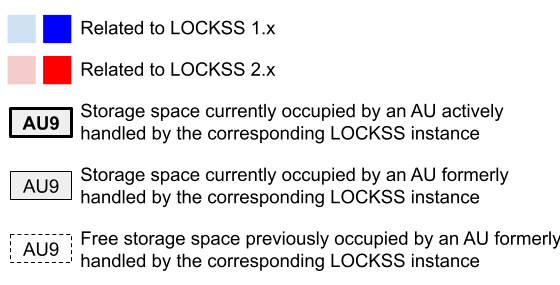
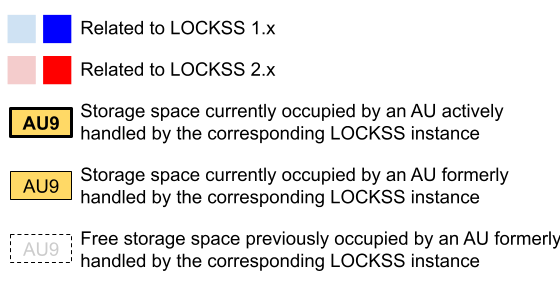
New diagrams for same-host migrations.

Changed region(s): [[0.0, 0.5895, 0.1518, 0.7018], [0.0, 0.3649, 0.1518, 0.4772], [0.0304, 0.8421, 0.1214, 0.8982]]

diff --git a/docs/migration/introduction.rst b/docs/migration/introduction.rst
@@ -70,32 +70,26 @@ Migration Scenario
 
 .. |SAMEHOSTMIGRATION| replace:: In this :ref:`Migration Scenario`, the LOCKSS 2.x instance is run on the existing host of the LOCKSS 1.x instance. After migration, the LOCKSS 1.x instance is decommissioned. If chosen, this scenario has two subtypes: a :ref:`Same-Host Migration With Future reclamation` if there is sufficient storage space to hold an entire LOCKSS 1.x and LOCKSS 2.x copy of the preserved content simultaneously (preferable), or a :ref:`Same-Host Migration With Incremental reclamation` if there is not.
 
-.. |SAMEHOSTMIGRATIONQUALIFICATION| replace:: if a new-host migration is not feasible
+.. |SAMEHOSTMIGRATIONFUTURE| replace:: This :ref:`Same-Host Migration` scenario applies when there is sufficient storage space to hold an entire LOCKSS 1.x and LOCKSS 2.x copy of the preserved content simultaneously. After the entire migration is complete, the storage space formerly used by the LOCKSS 1.x instance is reclaimed.
 
-.. |SAMEHOSTMIGRATIONFUTURE| replace:: In this :ref:`Same-Host Migration` scenario, the LOCKSS 2.x instance is configured to use different storage areas than the LOCKSS 1.x instance. After migration, the LOCKSS 1.x instance's storage areas are reclaimed all at once, and can then be devoted to the LOCKSS 2.x instance.
-
-.. |SAMEHOSTMIGRATIONFUTUREQUALIFICATION| replace:: if a same-host migration is needed, and there is sufficient storage space to hold an entire LOCKSS 1.x and LOCKSS 2.x copy of the content simultaneously
-
-.. |SAMEHOSTMIGRATIONINCREMENTAL| replace:: In this :ref:`Same-Host Migration` scenario, the LOCKSS 2.x instance is configured to use the same storage areas as the LOCKSS 1.x instance. The LOCKSS Migrator is operated in a mode in which the storage used by each AU in the LOCKSS 1.x instance is reclaimed after the AU is done migrating to the LOCKSS 2.x instance.
-
-.. |SAMEHOSTMIGRATIONINCREMENTALQUALIFICATION| replace:: only if a same-host migration is needed, but there is insufficient storage space to hold an entire LOCKSS 1.x and LOCKSS 2.x copy of the content simultaneously
+.. |SAMEHOSTMIGRATIONINCREMENTAL| replace:: This :ref:`Same-Host Migration` scenario applies only when there is *insufficient* storage space to hold an entire LOCKSS 1.x and LOCKSS 2.x copy of the preserved content simultaneously. The LOCKSS Migrator is operated in a mode in which the storage used by each AU in the LOCKSS 1.x instance is reclaimed after the AU is done migrating to the LOCKSS 2.x instance.
 
 You may choose one of two migration scenarios:
 
 *  :ref:`New-Host Migration` (**recommended**). |NEWHOSTMIGRATION|
 
-*  :ref:`Same-Host Migration` (|SAMEHOSTMIGRATIONQUALIFICATION|). |SAMEHOSTMIGRATION|
+*  :ref:`Same-Host Migration`. |SAMEHOSTMIGRATION|
 
 New-Host Migration
 ==================
 
 .. tip::
 
-   This :ref:`Migration Scenario` is **recommended**.
+   **This migration scenario is recommended.**
 
 |NEWHOSTMIGRATION|
 
-An illustration of this scenario before, during, and after the |PRINCIPAL| is shown below:
+An illustration of this scenario before, during, and after the |PRINCIPAL| is shown below (legend [#fn-legend]_):
 
 a. .. image:: laaws-migration-new-host-before.png
       :align: center
@@ -127,27 +121,66 @@ Same-Host Migration
 
 |SAMEHOSTMIGRATION|
 
+This :ref:`Migration Scenario` is used when a :ref:`New-Host Migration` is not feasible.
+
 Same-Host Migration With Future Reclamation
 -------------------------------------------
 
+.. tip::
+
+   If a :ref:`Same-Host Migration` is needed, this scenario is preferable to a :ref:`Same-Host Migration With Incremental Reclamation`.
+
 |SAMEHOSTMIGRATIONFUTURE|
 
-This migration scenario is used |SAMEHOSTMIGRATIONFUTUREQUALIFICATION|.
-
-.. image:: laaws-migration-same-host-future-overview.png
+.. image:: laaws-migration-same-host-future-start.png
    :align: center
+
+An illustration of this scenario before, during, and after the |PRINCIPAL| is shown below (legend [#fn-legend]_):
+
+a. .. image:: laaws-migration-same-host-future-before.png
+      :align: center
+
+b. .. image:: laaws-migration-same-host-future-middle3.png
+      :align: center
+
+c. .. image:: laaws-migration-same-host-future-after.png
+      :align: center
+
+d. .. image:: laaws-migration-same-host-future-end.png
+      :align: center
 
 Same-Host Migration With Incremental Reclamation
 ------------------------------------------------
 
 |SAMEHOSTMIGRATIONINCREMENTAL|
 
-This migration scenario is used |SAMEHOSTMIGRATIONINCREMENTALQUALIFICATION|.
-
-The process is largely the same as that for a :ref:`Same-Host Migration With Future Reclamation`, except for a step in :numref:`Configuring LOCKSS 1.x for Migration` (:ref:`Configuring LOCKSS 1.x for Migration`).
-
-.. image:: laaws-migration-same-host-incremental-overview.png
+.. image:: laaws-migration-same-host-incremental-start.png
    :align: center
+
+Procedurally, the process is the same as that for a :ref:`Same-Host Migration With Future Reclamation`, except for one particular step in :numref:`Configuring LOCKSS 1.x for Migration` (:ref:`Configuring LOCKSS 1.x for Migration`).
+
+An illustration of this scenario before, during, and after the |PRINCIPAL| is shown below (legend [#fn-legend]_):
+
+a. .. image:: laaws-migration-same-host-incremental-before.png
+      :align: center
+
+b. .. image:: laaws-migration-same-host-incremental-middle1.png
+      :align: center
+
+c. .. image:: laaws-migration-same-host-incremental-middle2.png
+      :align: center
+
+d. .. image:: laaws-migration-same-host-incremental-middle3.png
+      :align: center
+
+e. .. image:: laaws-migration-same-host-incremental-middle4.png
+      :align: center
+
+f. .. image:: laaws-migration-same-host-incremental-after.png
+      :align: center
+
+g. .. image:: laaws-migration-same-host-incremental-end.png
+      :align: center
 
 -----------------
 Dry Run Migration